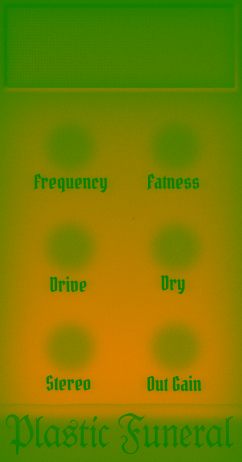
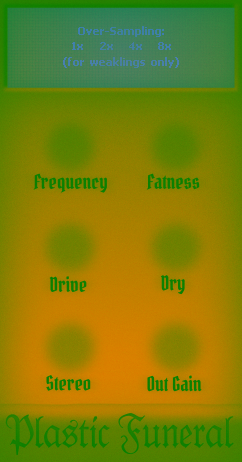
added oversampling panel

Changed region(s): [[0.0289, 0.0, 0.9835, 0.2121]]

diff --git a/Plastic Funeral/source/Source/PluginEditor.cpp b/Plastic Funeral/source/Source/PluginEditor.cpp
@@ -69,7 +69,7 @@ R"(#version 330 core
 in vec2 v_TexCoord;
 uniform sampler2D basetex;
 void main(){
-	gl_FragColor = vec4(vec3(texture2D(basetex,v_TexCoord).r),1);
+	gl_FragColor = vec4(texture2D(basetex,v_TexCoord).r,0,0,1);
 })";
 	baseshader.reset(new OpenGLShaderProgram(openGLContext));
 	baseshader->addVertexShader(basevert);
@@ -128,7 +128,7 @@ void main(){
 			if(hoverstate < -1) col += (hoverstate==-3?(1-hover):hover)*.3;
 			else col = col*(1-hover)+.01171875*hover;
 		}
-		gl_FragColor = vec4(vec3(col+texture2D(basetex,basecoord).g-.5),gl_FragColor.r);
+		gl_FragColor = vec4(col+texture2D(basetex,basecoord).g-.5,0,0,gl_FragColor.r);
 	} else gl_FragColor = vec4(0);
 })";
 	knobshader.reset(new OpenGLShaderProgram(openGLContext));
@@ -140,29 +140,53 @@ void main(){
 R"(#version 330 core
 in vec2 aPos;
 uniform vec2 texscale;
-out vec2 gradcoord;
-out vec2 v_TexCoord;
+out vec2 basecoord;
 void main(){
 	gl_Position = vec4(aPos,0,1);
-	//(.5-(80/2+8)/462)*2
-	gradcoord = (aPos-vec2(0,.7922077922))*vec2(1.0708,2.04425);
-	v_TexCoord = vec2((aPos.x*.5+.5)*texscale.x,1-(.5-aPos.y*.5)*texscale.y);
+	basecoord = vec2((aPos.x+1)*texscale.x*.5,1-(1-aPos.y)*texscale.y*.5);
 })";
 	visfrag = 
 R"(#version 330 core
-in vec2 gradcoord;
-in vec2 v_TexCoord;
+in vec2 basecoord;
 uniform sampler2D basetex;
+uniform float alpha;
 void main(){
-	if(gradcoord.x < 1 && gradcoord.x > -1 && gradcoord.y < .3539823009 && gradcoord.y > -.3539823009) {
-		float gradient = .390625-sqrt(gradcoord.x*gradcoord.x+gradcoord.y*gradcoord.y)*.15625;
-		gl_FragColor = vec4(vec3(texture2D(basetex,v_TexCoord).r*(1-gradient)+gradient),1);
-	} else gl_FragColor = vec4(0);
+	vec2 base = texture2D(basetex,basecoord).rb;
+	float gradient = (base.g<.5?base.g:(1-base.g))*alpha;
+	gl_FragColor = vec4(base.r*(1-gradient)+gradient,0,0,1);
 })";
 	visshader.reset(new OpenGLShaderProgram(openGLContext));
 	visshader->addVertexShader(visvert);
 	visshader->addFragmentShader(visfrag);
 	visshader->link();
+
+	oversamplingvert =
+R"(#version 330 core
+in vec2 aPos;
+uniform vec2 texscale;
+uniform float selection;
+out vec2 basecoord;
+out vec2 highlightcoord;
+void main(){
+	gl_Position = vec4(aPos.x-.5,aPos.y*.2+.7,0,1);
+	basecoord = vec2((aPos.x+.5)*.5*texscale.x,1-(1.5-aPos.y)*.1*texscale.y);
+	highlightcoord = vec2(aPos.x*6.3684210526+selection,aPos.y*3.3-1.1642857143);
+})";
+	oversamplingfrag =
+R"(#version 330 core
+in vec2 basecoord;
+in vec2 highlightcoord;
+uniform sampler2D basetex;
+uniform float alpha;
+void main(){
+	float tex = texture2D(basetex,basecoord).b;
+	if(highlightcoord.x>0&&highlightcoord.x<1&&highlightcoord.y>0&&highlightcoord.y<1)tex=1-tex;
+	gl_FragColor = vec4(1,0,0,tex>.5?((1-tex)*alpha):0);
+})";
+	oversamplingshader.reset(new OpenGLShaderProgram(openGLContext));
+	oversamplingshader->addVertexShader(oversamplingvert);
+	oversamplingshader->addFragmentShader(oversamplingfrag);
+	oversamplingshader->link();
 
 	creditsvert =
 R"(#version 330 core
@@ -181,7 +205,7 @@ uniform float alpha;
 uniform float shineprog;
 void main(){
 	vec2 creditols = texture2D(creditstex,v_TexCoord).rb;
-	gl_FragColor = vec4(vec3(creditols.g+texture2D(creditstex,v_TexCoord+vec2(shineprog,0)).g*creditols.r*.8),alpha);
+	gl_FragColor = vec4(creditols.g+texture2D(creditstex,v_TexCoord+vec2(shineprog,0)).g*creditols.r*.8,0,0,alpha);
 })";
 	creditsshader.reset(new OpenGLShaderProgram(openGLContext));
 	creditsshader->addVertexShader(creditsvert);
@@ -215,8 +239,8 @@ void main(){
 
 	basetex.loadImage(ImageCache::getFromMemory(BinaryData::base_png, BinaryData::base_pngSize));
 	basetex.bind();
-	glTexParameteri(GL_TEXTURE_2D, GL_TEXTURE_MIN_FILTER, GL_LINEAR);
-	glTexParameteri(GL_TEXTURE_2D, GL_TEXTURE_MAG_FILTER, GL_LINEAR);
+	glTexParameteri(GL_TEXTURE_2D, GL_TEXTURE_MIN_FILTER, GL_NEAREST);
+	glTexParameteri(GL_TEXTURE_2D, GL_TEXTURE_MAG_FILTER, GL_NEAREST);
 	glTexParameteri(GL_TEXTURE_2D, GL_TEXTURE_WRAP_S, GL_CLAMP);
 	glTexParameteri(GL_TEXTURE_2D, GL_TEXTURE_WRAP_T, GL_CLAMP);
 
@@ -229,8 +253,8 @@ void main(){
 
 	creditstex.loadImage(ImageCache::getFromMemory(BinaryData::credits_png, BinaryData::credits_pngSize));
 	creditstex.bind();
-	glTexParameteri(GL_TEXTURE_2D, GL_TEXTURE_MIN_FILTER, GL_LINEAR);
-	glTexParameteri(GL_TEXTURE_2D, GL_TEXTURE_MAG_FILTER, GL_LINEAR);
+	glTexParameteri(GL_TEXTURE_2D, GL_TEXTURE_MIN_FILTER, GL_NEAREST);
+	glTexParameteri(GL_TEXTURE_2D, GL_TEXTURE_MAG_FILTER, GL_NEAREST);
 	glTexParameteri(GL_TEXTURE_2D, GL_TEXTURE_WRAP_S, GL_CLAMP);
 	glTexParameteri(GL_TEXTURE_2D, GL_TEXTURE_WRAP_T, GL_CLAMP);
 
@@ -289,23 +313,44 @@ void PFAudioProcessorEditor::renderOpenGL() {
 		}
 		openGLContext.extensions.glDisableVertexAttribArray(coord);
 
-		glLineWidth(1.3);
-		visshader->use();
-		coord = openGLContext.extensions.glGetAttribLocation(visshader->getProgramID(),"aPos");
-		openGLContext.extensions.glActiveTexture(GL_TEXTURE0);
-		basetex.bind();
-		visshader->setUniform("basetex",0);
-		visshader->setUniform("texscale",242.f/basetex.getWidth(),462.f/basetex.getHeight());
-		openGLContext.extensions.glEnableVertexAttribArray(coord);
-		openGLContext.extensions.glVertexAttribPointer(coord,2,GL_FLOAT,GL_FALSE,0,0);
-		openGLContext.extensions.glBufferData(GL_ARRAY_BUFFER, sizeof(float)*452, visline[0], GL_DYNAMIC_DRAW);
-		glDrawArrays(GL_LINE_STRIP,0,226);
-		if(isStereo) {
-			openGLContext.extensions.glBufferData(GL_ARRAY_BUFFER, sizeof(float)*452, visline[1], GL_DYNAMIC_DRAW);
+		float osalpha = oversamplingalpha;
+		if(oversamplingalpha < 1) {
+			if(oversamplingalpha > 0)
+				osalpha = oversamplingalpha<0.5?4*oversamplingalpha*oversamplingalpha*oversamplingalpha:1-(float)pow(-2*oversamplingalpha+2,3)/2;
+			glLineWidth(1.3);
+			visshader->use();
+			coord = openGLContext.extensions.glGetAttribLocation(visshader->getProgramID(),"aPos");
+			openGLContext.extensions.glActiveTexture(GL_TEXTURE0);
+			basetex.bind();
+			visshader->setUniform("basetex",0);
+			visshader->setUniform("alpha",1-osalpha);
+			visshader->setUniform("texscale",242.f/basetex.getWidth(),462.f/basetex.getHeight());
+			openGLContext.extensions.glEnableVertexAttribArray(coord);
+			openGLContext.extensions.glVertexAttribPointer(coord,2,GL_FLOAT,GL_FALSE,0,0);
+			openGLContext.extensions.glBufferData(GL_ARRAY_BUFFER, sizeof(float)*452, visline[0], GL_DYNAMIC_DRAW);
 			glDrawArrays(GL_LINE_STRIP,0,226);
+			if(isStereo) {
+				openGLContext.extensions.glBufferData(GL_ARRAY_BUFFER, sizeof(float)*452, visline[1], GL_DYNAMIC_DRAW);
+				glDrawArrays(GL_LINE_STRIP,0,226);
+			}
+			openGLContext.extensions.glDisableVertexAttribArray(coord);
+			openGLContext.extensions.glBufferData(GL_ARRAY_BUFFER, sizeof(float)*8, square, GL_DYNAMIC_DRAW);
 		}
-		openGLContext.extensions.glDisableVertexAttribArray(coord);
-		openGLContext.extensions.glBufferData(GL_ARRAY_BUFFER, sizeof(float)*8, square, GL_DYNAMIC_DRAW);
+
+		if(oversamplingalpha > 0) {
+			oversamplingshader->use();
+			coord = openGLContext.extensions.glGetAttribLocation(oversamplingshader->getProgramID(),"aPos");
+			openGLContext.extensions.glActiveTexture(GL_TEXTURE0);
+			basetex.bind();
+			oversamplingshader->setUniform("basetex",0);
+			oversamplingshader->setUniform("alpha",osalpha);
+			oversamplingshader->setUniform("selection",-.3947368421f-1.5263157895f*oversamplinglerped);
+			oversamplingshader->setUniform("texscale",242.f/basetex.getWidth(),462.f/basetex.getHeight());
+			openGLContext.extensions.glEnableVertexAttribArray(coord);
+			openGLContext.extensions.glVertexAttribPointer(coord,2,GL_FLOAT,GL_FALSE,0,0);
+			glDrawArrays(GL_TRIANGLE_STRIP,0,4);
+			openGLContext.extensions.glDisableVertexAttribArray(coord);
+		}
 
 		if(creditsalpha > 0) {
 			creditsshader->use();
@@ -315,7 +360,6 @@ void PFAudioProcessorEditor::renderOpenGL() {
 			creditsshader->setUniform("texscale",242.f/creditstex.getWidth(),59.f/creditstex.getHeight());
 			creditsshader->setUniform("alpha",creditsalpha<0.5?4*creditsalpha*creditsalpha*creditsalpha:1-(float)pow(-2*creditsalpha+2,3)/2);
 			creditsshader->setUniform("shineprog",websiteht);
-			openGLContext.extensions.glBufferData(GL_ARRAY_BUFFER, sizeof(float)*8, square, GL_DYNAMIC_DRAW);
 			coord = openGLContext.extensions.glGetAttribLocation(creditsshader->getProgramID(),"aPos");
 			openGLContext.extensions.glEnableVertexAttribArray(coord);
 			openGLContext.extensions.glVertexAttribPointer(coord,2,GL_FLOAT,GL_FALSE,0,0);
@@ -367,6 +411,25 @@ void PFAudioProcessorEditor::calcvis() {
 void PFAudioProcessorEditor::paint (Graphics& g) { }
 
 void PFAudioProcessorEditor::timerCallback() {
+	for(int i = 0; i < 6; i++) {
+		if(knobs[i].hoverstate < -1) {
+			needtoupdate = 2;
+			knobs[i].hoverstate++;
+		}
+	}
+	if(held > 0) held--;
+
+	if(oversamplingalpha != (hover<=-4?1:0)) {
+		oversamplingalpha = fmax(fmin(oversamplingalpha+(hover<=-4?.07f:-.07f),1),0);
+		needtoupdate = 2;
+	}
+
+	if (oversamplinglerped != oversampling) {
+		needtoupdate = 2;
+		if(fabs(oversamplinglerped-oversampling) <= .001f) oversamplinglerped = oversampling;
+		oversamplinglerped = oversamplinglerped*.75f+oversampling*.25f;
+	}
+
 	if(creditsalpha != ((hover<=-2&&hover>=-3)?1:0)) {
 		creditsalpha = fmax(fmin(creditsalpha+((hover<=-2&&hover>=-3)?.07f:-.07f),1),0);
 		needtoupdate = 2;
@@ -376,14 +439,6 @@ void PFAudioProcessorEditor::timerCallback() {
 		websiteht -= .05;
 		needtoupdate = 2;
 	}
-
-	for(int i = 0; i < 6; i++) {
-		if(knobs[i].hoverstate < -1) {
-			needtoupdate = 2;
-			knobs[i].hoverstate++;
-		}
-	}
-	if(held > 0) held--;
 
 	if(audioProcessor.rmscount.get() > 0) {
 		rms = sqrt(audioProcessor.rmsadd.get()/audioProcessor.rmscount.get());
@@ -417,12 +472,12 @@ void PFAudioProcessorEditor::parameterChanged(const String& parameterID, float n
 	} else if(parameterID == "gain") {
 		audioProcessor.gain = newValue;
 		knobs[5].value = newValue;
+	} else if(parameterID == "oversampling") {
+		audioProcessor.oversampling = newValue-1;
+		oversampling = newValue-1;
 	}
 	calcvis();
 	needtoupdate = 2;
-}
-void PFAudioProcessorEditor::mouseEnter(const MouseEvent& event) {
-//dlt
 }
 void PFAudioProcessorEditor::mouseMove(const MouseEvent& event) {
 	int prevhover = hover;
@@ -444,6 +499,12 @@ void PFAudioProcessorEditor::mouseDown(const MouseEvent& event) {
 		audioProcessor.undoManager.beginNewTransaction();
 		dragpos = event.getScreenPosition();
 		event.source.enableUnboundedMouseMovement(true);
+	} else if(hover < -4) {
+		oversampling = hover+8;
+		audioProcessor.apvts.getParameter("oversampling")->setValueNotifyingHost((float)oversampling+1);
+		audioProcessor.undoManager.setCurrentTransactionName(
+			(String)("Set Over-Sampling to ") += (oversampling+1));
+		audioProcessor.undoManager.beginNewTransaction();
 	}
 }
 void PFAudioProcessorEditor::mouseDrag(const MouseEvent& event) {
@@ -459,9 +520,6 @@ void PFAudioProcessorEditor::mouseDrag(const MouseEvent& event) {
 
 		audioProcessor.apvts.getParameter(knobs[hover].id)->setValueNotifyingHost
 			(fmin(fmax(initialvalue-(event.getDistanceFromDragStartY()-event.getDistanceFromDragStartX())*(finemode?.0005f:.005f),0),1));
-	} else if(initialdrag == -2) {
-		int draghover = recalchover(event.x,event.y);
-		hover = (draghover>=-2||draghover<=-3)?-2:0;
 	} else if (initialdrag == -3) {
 		int prevhover = hover;
 		hover = recalchover(event.x,event.y)==-3?-3:-2;
@@ -480,11 +538,19 @@ void PFAudioProcessorEditor::mouseUp(const MouseEvent& event) {
 		int prevhover = hover;
 		hover = recalchover(event.x,event.y);
 		if(hover == -3 && prevhover != -3 && websiteht < -.227273) websiteht = 0.7933884298f;
+		if(hover > -1) knobs[hover].hoverstate = -4;
 	}
 	held = 1;
 }
 int PFAudioProcessorEditor::recalchover(float x, float y) {
-	if(y > 403) {
+	if (x >= 8 && x <= 234 && y >= 8 && y <= 87) {
+		if(y < 39 || y > 53) return -4;
+		if(x >= 68 && x <= 87) return -8;
+		if(x >= 97 && x <= 116) return -7;
+		if(x >= 126 && x <= 145) return -6;
+		if(x >= 155 && x <= 174) return -5;
+		return -4;
+	} else if(y >= 403) {
 		if(x >= 50 && x <= 196 && y >= 412 && y <= 456) return -3;
 		return -2;
 	}

diff --git a/Plastic Funeral/source/Source/PluginProcessor.cpp b/Plastic Funeral/source/Source/PluginProcessor.cpp
@@ -230,7 +230,8 @@ void PFAudioProcessor::getStateInformation (MemoryBlock& destData) {
 		<< linebreak << drive.get()
 		<< linebreak << dry.get()
 		<< linebreak << stereo.get()
-		<< linebreak << gain.get() << linebreak;
+		<< linebreak << gain.get()
+		<< linebreak << (oversampling.get()+1) << linebreak;
 	for (int i = 0; i < getNumPrograms(); i++) {
 		data << presets[i].name
 			<< linebreak << presets[i].freq
@@ -276,6 +277,12 @@ void PFAudioProcessor::setStateInformation (const void* data, int sizeInBytes) {
 	gain = std::stof(token);
 	apvts.getParameter("gain")->setValueNotifyingHost(std::stof(token));
 
+	if (saveversion > 1) {
+		std::getline(ss, token, '\n');
+		oversampling = std::stoi(token);
+		apvts.getParameter("oversampling")->setValueNotifyingHost(std::stoi(token));
+	}
+
 	normalizegain();
 
 	for(int i = 0; i < getNumPrograms(); i++) {
@@ -300,5 +307,6 @@ AudioProcessorValueTreeState::ParameterLayout
 	parameters.push_back(std::make_unique<AudioParameterFloat>("dry","Dry",0.0f,1.0f,0.0f));
 	parameters.push_back(std::make_unique<AudioParameterFloat>("stereo","Stereo",0.0f,1.0f,0.37f));
 	parameters.push_back(std::make_unique<AudioParameterFloat>("gain","Out Gain",0.0f,1.0f,0.4f));
+	parameters.push_back(std::make_unique<AudioParameterInt>("oversampling","Over-Sampling",1,4,1));
 	return { parameters.begin(), parameters.end() };
 }

diff --git a/Plastic Funeral/source/Source/PluginEditor.h b/Plastic Funeral/source/Source/PluginEditor.h
@@ -36,7 +36,6 @@ public:
 	void timerCallback() override;
 
 	virtual void parameterChanged(const String& parameterID, float newValue);
-	void mouseEnter(const MouseEvent& event) override;
 	void mouseMove(const MouseEvent& event) override;
 	void mouseExit(const MouseEvent& event) override;
 	void mouseDown(const MouseEvent& event) override;
@@ -79,6 +78,13 @@ private:
 	std::unique_ptr<OpenGLShaderProgram> visshader;
 	String visvert;
 	String visfrag;
+
+	float oversamplingalpha = 0;
+	float oversamplinglerped = 0;
+	int oversampling = 0;
+	std::unique_ptr<OpenGLShaderProgram> oversamplingshader;
+	String oversamplingvert;
+	String oversamplingfrag;
 
 	float websiteht = -1;
 	float creditsalpha = 0;

diff --git a/Plastic Funeral/source/Source/PluginProcessor.h b/Plastic Funeral/source/Source/PluginProcessor.h
@@ -56,8 +56,9 @@ public:
 	Atomic<float> rmsadd = 0;
 	Atomic<int> rmscount = 0;
 
-	int version = 1;
+	int version = 2;
 	Atomic<float> freq = 0.32, fat = 0, drive = 0, dry = 0, stereo = 0.37, gain = .4, norm = 1;
+	Atomic<int> oversampling = 0;
 
 private:
 	float oldfreq = 0, oldfat = 0, olddrive = 0, olddry = 0, oldstereo = 0, oldgain = 1, oldnorm = 1;
